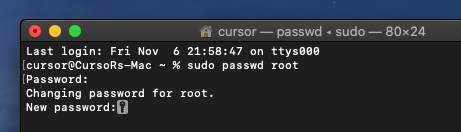
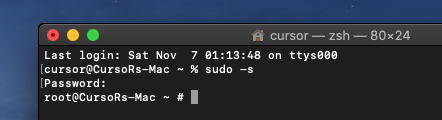
Update macOS document & 您
sudo -s 真香

Changed region(s): [[0.0, 0.125, 1.0, 1.0]]

diff --git a/frpc/usage/macos.md b/frpc/usage/macos.md
@@ -1,15 +1,6 @@
 # macOS 系统使用 frpc
 
-## 创建 root 账户
-?> 如果您拥有 `root` 账户并记得密码，可以跳过这一步
-
-登录管理面板，在侧边栏点击 “软件下载” :
-
-![](../../_images/download.png)
-
-翻到页面底部，找到 macOS 并复制右边蓝色的下载地址
-
-![](_images/macos-0.png)
+## 进入 root 权限
 
 按下键盘上的 `command+空格` 调出聚焦搜索并键入 `终端`  
 双击终端图表以打开终端
@@ -17,34 +8,26 @@
 ![](_images/macos-1.png)
 ![](_images/macos-2.png)
 
-使用下面的命令创建 `root` 用户
+使用下面的命令进入 `root` 权限
 
 ```bash
-sudo passwd root
+sudo -s
 ```
 
 ![](_images/macos-3.png)
 
-输入你当前账户的密码并按下回车
+在 `Password:` 处输入您当前账户的密码并按下回车
+?> 您会发现终端并没有显示，不用担心，“摸黑”输入密码后按下回车即可，退格按键同样可用
 
 ![](_images/macos-4.png)
 
-在 `New password:` 处，输入你想要的 `root` 账户密码并回车  
-在 `Retype new password:` 处，重复你的 `root` 账户密码并回车
-
-?> 你会发现终端并没有显示，不用担心，“摸黑”输入密码后按下回车即可，退格按键同样可用
-!> 您应像保管任何重要密码一样保管您的 `root` 账户密码
-
-![](_images/macos-5.png)
-
-如果您看到和图里一样的输出，说明 `root` 账户已成功创建
+如果您看到和图里一样的输出，说明已成功进入 `root` 权限
 
 ## 安装 frpc
 
-打开终端，输入 `su` 并回车  
-输入您的 `root` 账户密码并回车，如图所示即成功进入 `root` 账户
+打开终端，进入 `root` 权限
 
-![](_images/macos-6.png)
+![](_images/macos-4.png)
 
 使用下面的命令进入 `/usr/local/bin` 文件夹并下载文件
 
@@ -53,7 +36,7 @@ mkdir -p -m 755 /usr/local/bin && cd /usr/local/bin
 curl -Lo frpc https://getfrp.sh/d/frpc_darwin_amd64
 ```
 
-![](_images/macos-7.png)
+![](_images/macos-5.png)
 
 使用下面的命令设置权限并检查输出
 
@@ -62,7 +45,7 @@ chmod 755 frpc
 ls -ls frpc
 ```
 
-![](_images/macos-8.png)
+![](_images/macos-6.png)
 
 如果您看到和图里一样的输出，说明 frpc 已完成安装并准备就绪  
 您可以执行下面的命令再次确认以及查看 frpc 版本号
